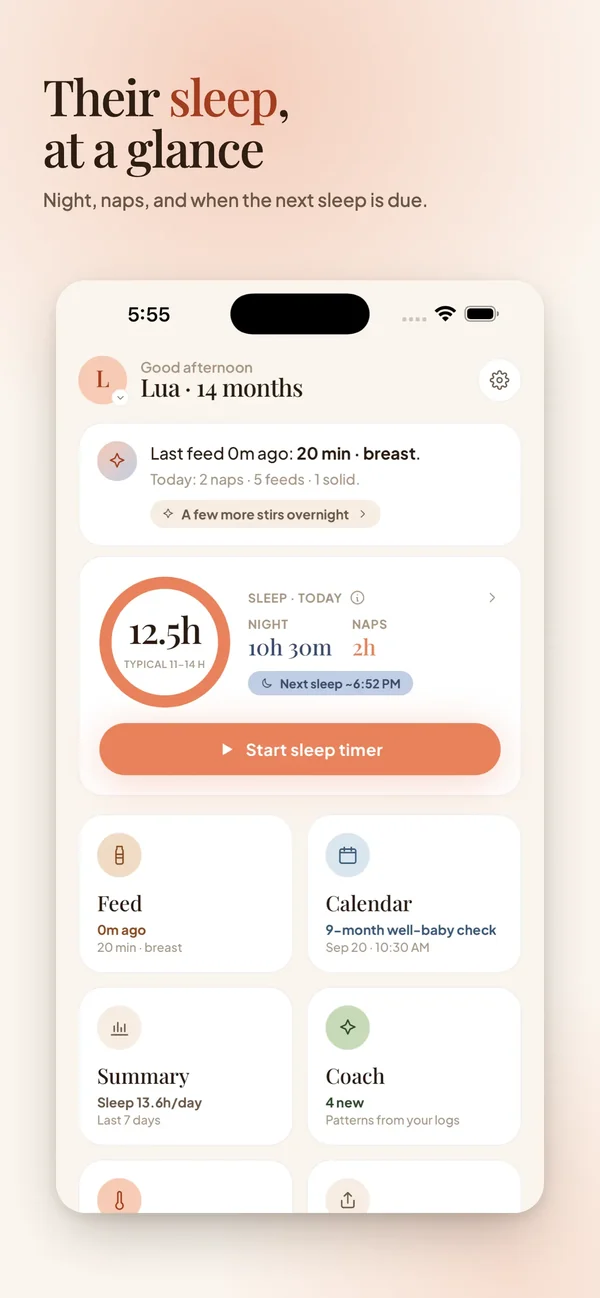
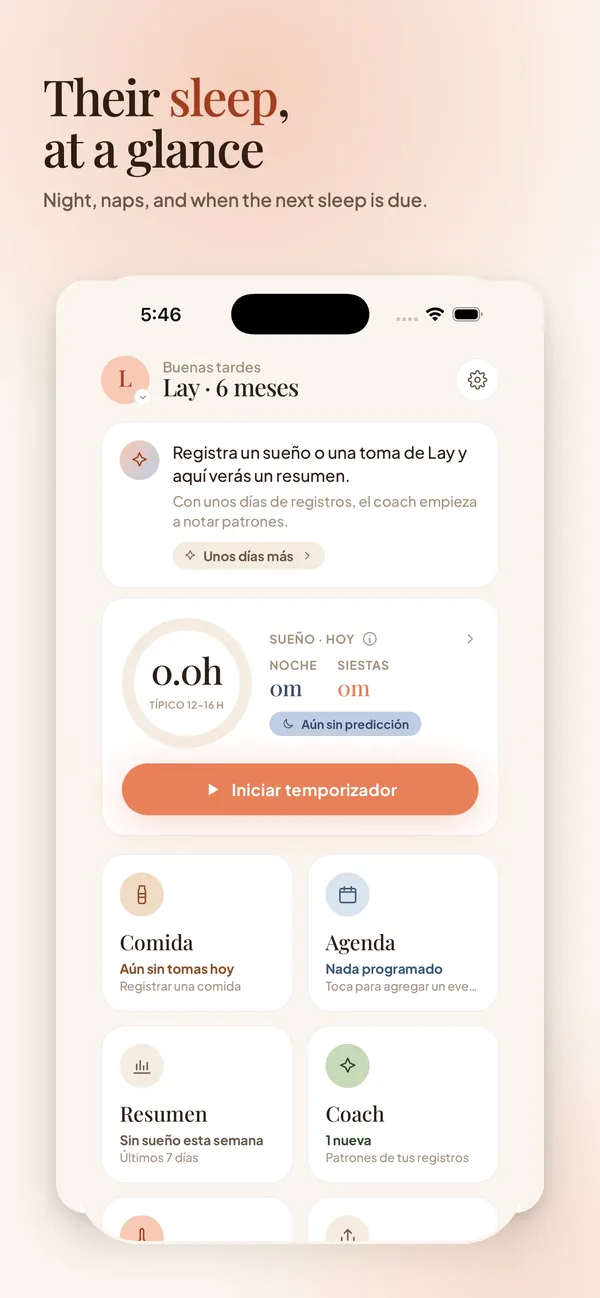
feat: present mobile work as React Native and make Lyapp steps clickable
The hero phone is a generic app that builds with the typed code, the offer names React Native, and the Lyapp step marks jump the demo to the matching screen.

diff --git a/src/styles/global.css b/src/styles/global.css
@@ -212,9 +212,12 @@ button { font: inherit; color: inherit; background: none; border: 0; cursor: poi
 .float-chip { position: absolute; z-index: 3; display: flex; align-items: center; gap: 10px; padding: 11px 14px; border-radius: 14px; border: 1px solid var(--line-2); background: rgba(14,17,32,.82); backdrop-filter: blur(14px); -webkit-backdrop-filter: blur(14px); box-shadow: 0 20px 50px -10px rgba(0,0,0,.6); font-size: 13px; text-align: left; white-space: nowrap; will-change: transform; }
 .float-chip small { display: block; font-family: var(--mono); font-size: 10.5px; color: var(--dim); }
 .float-chip__ic { width: 32px; height: 32px; border-radius: 10px; display: grid; place-items: center; }
-.float-chip > div { animation: floaty 6s ease-in-out infinite; display: flex; gap: 10px; align-items: center; }
-.chip-a { top: 18%; left: -5%; } .chip-b { top: 52%; right: -6%; } .chip-c { bottom: 8%; left: 6%; }
-.chip-b > div { animation-delay: -2s; } .chip-c > div { animation-delay: -4s; }
+.float-chip > div { display: flex; gap: 10px; align-items: center; }
+.chip-a { top: 18%; left: -5%; --edge: var(--green); } .chip-b { top: 52%; right: -6%; --edge: #45e0ff; } .chip-c { bottom: 8%; left: 6%; --edge: #9b6bff; }
+@property --chip-a { syntax: "<angle>"; inherits: false; initial-value: 0deg; }
+.chip-a, .chip-b, .chip-c { border-color: transparent; background: linear-gradient(rgba(14, 17, 32, .92), rgba(14, 17, 32, .92)) padding-box, conic-gradient(from var(--chip-a), rgba(255, 255, 255, .1) 0 64%, var(--edge) 80%, rgba(255, 255, 255, .1) 94% 100%) border-box; animation: chipEdge 5.2s linear infinite; }
+.chip-b { animation-delay: -1.7s; } .chip-c { animation-delay: -3.4s; }
+@keyframes chipEdge { to { --chip-a: 360deg; } }
 
 @media (max-width: 900px) {
   .dash { grid-template-columns: 1fr; }
@@ -355,8 +358,9 @@ button { font: inherit; color: inherit; background: none; border: 0; cursor: poi
 .sstep h3 { font-family: var(--display); font-size: clamp(26px, 3vw, 38px); font-weight: 700; letter-spacing: -1px; line-height: 1.08; margin-bottom: 14px; }
 .sstep p { color: var(--muted); font-size: 15.5px; line-height: 1.65; }
 .scrolly__dots { display: flex; gap: 8px; margin-top: 28px; position: absolute; bottom: -54px; }
-.scrolly__dots i { width: 28px; height: 3px; border-radius: 3px; background: var(--line-2); transition: background .4s, width .4s var(--ease); }
-.scrolly__dots i.is-on { background: var(--cyan); width: 44px; }
+.scrolly__dots button { position: relative; width: 28px; height: 3px; padding: 0; border-radius: 3px; background: var(--line-2); transition: background .4s, width .4s var(--ease); }
+.scrolly__dots button::before { content: ""; position: absolute; inset: -12px -4px; }
+.scrolly__dots button.is-on { background: var(--cyan); width: 44px; }
 .phone-wrap { position: relative; perspective: 1400px; }
 .phone { position: relative; width: 300px; height: 620px; border-radius: 48px; padding: 11px; background: linear-gradient(145deg, #2a2f47, #0c0e1a 40%, #1b1f33); box-shadow: 0 0 0 1px rgba(255,255,255,.08), 0 60px 120px -30px rgba(0,0,0,.9), 0 0 80px -20px rgba(69,224,255,.35); transform: rotateY(var(--ry, -18deg)) rotateX(var(--rx, 8deg)) translateY(var(--ty, 60px)) scale(var(--ps, .9)); transition: transform .15s linear; will-change: transform; }
 .phone__screen { position: relative; height: 100%; border-radius: 38px; overflow: hidden; background: #070913; }
@@ -611,9 +615,9 @@ button { font: inherit; color: inherit; background: none; border: 0; cursor: poi
 .loader.is-done { opacity: 0; visibility: hidden; }
 .loader__f { --u: clamp(6px, 1.4vw, 10px); position: relative; width: calc(25.5 * var(--u)); height: calc(32 * var(--u)); }
 .loader__f i, .fplay__f i { position: absolute; left: calc(var(--c) * 6.5 * var(--u)); top: calc(var(--r) * 6.5 * var(--u)); width: calc(6 * var(--u)); height: calc(6 * var(--u)); border-radius: calc(1.4 * var(--u)); background: #eef2f8; }
-.loader__f i { animation: fkDrop .5s cubic-bezier(.3, 1.35, .5, 1) both; animation-delay: calc(var(--i) * 75ms + 100ms); }
+.loader__f i { animation: fkDrop .62s cubic-bezier(.3, 1.35, .5, 1) both; animation-delay: calc(var(--i) * 92ms + 110ms); }
 .loader__f i.is-fork, .fplay__f i.is-fork { background: linear-gradient(135deg, #22d3ee, #38bdf8 40%, #818cf8 75%, #8b5cf6); box-shadow: 0 0 calc(3 * var(--u)) rgba(56, 189, 248, .55); }
-.loader__f i.is-fork { animation: fkPop .6s var(--ease) both 1s, fkWiggle 1.4s ease-in-out infinite 1.7s; }
+.loader__f i.is-fork { animation: fkPop .74s var(--ease) both 1.2s, fkWiggle 1.4s ease-in-out infinite 2s; }
 .loader__txt { display: flex; gap: 14px; align-items: baseline; font-family: var(--mono); font-size: 12px; letter-spacing: .08em; color: var(--dim); }
 .loader__txt span::after { content: "…"; animation: blink 1s steps(1) infinite; }
 .loader__txt b { color: var(--cyan); font-weight: 500; min-width: 4ch; text-align: right; }
@@ -778,10 +782,10 @@ a.svc { text-decoration: none; color: inherit; }
 .phone--ly { --ly-bg: #F7F1EA; --ly-ink: #2B2420; --ly-mute: #8a7f76; --ly-coral: #E8805A; --ly-blue: #4E5D85; --ly-card: #fffdfb; box-shadow: 0 0 0 1px rgba(255, 255, 255, .1), 0 60px 120px -30px rgba(0, 0, 0, .9), 0 0 90px -20px rgba(232, 128, 90, .4); }
 .phone--ly .phone__screen { background: var(--ly-bg); color: var(--ly-ink); }
 .phone--ly .phone__status { color: var(--ly-ink); }
-.phone--ly .phone__notch { display: flex; align-items: center; justify-content: flex-end; padding: 0 10px; transition: width .6s var(--ease); }
-.island-timer { display: inline-flex; align-items: center; gap: 6px; opacity: 0; font-family: var(--mono); font-size: 10.5px; color: #F6C9B2; transition: opacity .3s; }
-.island-timer i { width: 8px; height: 8px; border-radius: 50%; background: var(--ly-coral); animation: pulseDot 1.4s infinite; }
-.phone--ly.is-timing .phone__notch { width: 150px; }
+.phone--ly .phone__notch { display: flex; align-items: center; justify-content: center; padding: 0 8px; transition: width .6s var(--ease); }
+.island-timer { display: inline-flex; align-items: center; gap: 5px; opacity: 0; font-family: var(--mono); font-size: 10px; color: #F6C9B2; transition: opacity .3s; white-space: nowrap; }
+.island-timer i { width: 6px; height: 6px; border-radius: 50%; background: var(--ly-coral); animation: pulseDot 1.4s infinite; }
+.phone--ly.is-timing .phone__notch { width: 104px; }
 .phone--ly.is-timing .island-timer { opacity: 1; transition-delay: .3s; }
 .screen.ly { padding: 10px 14px; gap: 9px; font-family: var(--body); }
 .ly-hello { display: flex; align-items: center; gap: 10px; }
@@ -1121,18 +1125,30 @@ a.svc { text-decoration: none; color: inherit; }
 .pv-step { opacity: 0; transform: translateY(14px) scale(.96); transition: opacity .5s var(--ease), transform .6s cubic-bezier(.3, 1.4, .5, 1); }
 .pv-step.is-on { opacity: 1; transform: none; }
 .live__wipe { position: absolute; inset: 0; pointer-events: none; background-image: linear-gradient(var(--bg) 0 0); background-size: 100% 0; background-repeat: no-repeat; }
-.pv-phone { width: 190px; height: 340px; border-radius: 32px; padding: 34px 14px 14px; background: #F7F1EA; color: #2B2420; box-shadow: 0 0 0 7px #151a2e, 0 30px 60px -20px rgba(0, 0, 0, .8); position: relative; display: flex; flex-direction: column; gap: 10px; }
-.pv-island { position: absolute; top: 10px; left: 50%; width: 64px; height: 18px; margin-left: -32px; border-radius: 12px; background: #000; }
-.pv-phone small { font-size: 10px; letter-spacing: .08em; color: #8a7f76; text-transform: uppercase; }
-.pv-ring { position: relative; width: 120px; height: 120px; margin: 0 auto; }
-.pv-ring svg { width: 100%; height: 100%; transform: rotate(-90deg); }
-.pv-ring circle { fill: none; stroke-width: 10; stroke: #F3E5DB; }
-.pv-ring circle + circle { stroke: #E8805A; stroke-linecap: round; stroke-dasharray: 252; stroke-dashoffset: 252; transition: stroke-dashoffset 1.4s var(--ease) .2s; }
-.pv-ring.is-on circle + circle { stroke-dashoffset: 28; }
-.pv-ring b { position: absolute; inset: 0; display: grid; place-items: center; font-family: "Playfair Display", Georgia, serif; font-size: 24px; font-weight: 500; }
-.pv-btn { padding: 10px; border-radius: 999px; background: #E8805A; color: #fff; font-size: 11px; font-weight: 700; text-align: center; }
-.pv-tiles { display: grid; grid-template-columns: 1fr 1fr; gap: 6px; font-size: 10px; }
-.pv-tiles span { padding: 10px 8px; border-radius: 12px; background: #fff; box-shadow: 0 4px 12px -6px rgba(90, 60, 40, .3); }
+.pv-phone { width: auto; height: min(364px, calc(100% - 8px)); aspect-ratio: 196 / 364; border-radius: 32px; padding: 30px 13px 68px; background: radial-gradient(120% 60% at 50% 0%, rgba(69, 224, 255, .1), transparent 60%), #0b0e1c; color: var(--text); box-shadow: 0 0 0 1px rgba(255, 255, 255, .08), 0 0 0 7px #151a2e, 0 0 0 8px rgba(255, 255, 255, .06), 0 30px 60px -20px rgba(0, 0, 0, .8); position: relative; display: flex; flex-direction: column; gap: 8px; overflow: hidden; }
+.pv-phone small { font-size: 9.5px; color: var(--muted); }
+.pv-phone b { font-weight: 700; }
+.pv-status { position: absolute; top: 14px; left: 22px; right: 22px; display: flex; align-items: center; justify-content: space-between; font-size: 10px; }
+.pv-status i { width: 30px; height: 6px; border-radius: 2px; background: linear-gradient(90deg, rgba(255, 255, 255, .7) 0 70%, rgba(255, 255, 255, .2) 70%); }
+.pv-status::after { content: ""; position: absolute; top: 0; left: 50%; width: 8px; height: 8px; margin-left: -4px; border-radius: 50%; background: #05060d; box-shadow: 0 0 0 1px rgba(255, 255, 255, .08); }
+.pv-head { display: flex; align-items: flex-end; justify-content: space-between; }
+.pv-head span { display: flex; flex-direction: column; }
+.pv-head b { font-family: var(--display); font-size: 24px; letter-spacing: -.6px; line-height: 1.1; }
+.pv-head i { width: 28px; height: 28px; border-radius: 50%; background: var(--grad); }
+.pv-stats { padding: 12px; border-radius: 16px; border: 1px solid var(--line-2); background: rgba(255, 255, 255, .03); display: grid; grid-template-columns: 1fr auto; align-items: baseline; gap: 4px 0; }
+.pv-stats b { font-family: var(--display); font-size: 16px; }
+.pv-bars { grid-column: 1 / -1; height: 32px; margin-top: 4px; display: flex; align-items: flex-end; gap: 6px; }
+.pv-bars i { flex: 1; height: var(--h); border-radius: 4px; background: rgba(255, 255, 255, .1); }
+.pv-bars i:nth-child(6) { background: var(--grad); box-shadow: 0 6px 16px -6px rgba(69, 224, 255, .6); }
+.pv-btn { padding: 11px; border-radius: 14px; background: var(--grad); color: var(--bg); font-size: 11.5px; font-weight: 700; text-align: center; }
+.pv-tiles { display: grid; grid-template-columns: 1fr 1fr; gap: 8px; }
+.pv-tiles span { padding: 10px; border-radius: 14px; border: 1px solid var(--line-2); background: rgba(255, 255, 255, .03); display: flex; flex-direction: column; gap: 2px; }
+.pv-tiles i { width: 18px; height: 18px; margin-bottom: 6px; border-radius: 6px; background: rgba(69, 224, 255, .2); box-shadow: inset 0 0 0 1px rgba(69, 224, 255, .5); }
+.pv-tiles i.is-v { background: rgba(155, 107, 255, .2); box-shadow: inset 0 0 0 1px rgba(155, 107, 255, .55); }
+.pv-tiles b { font-size: 11px; }
+.pv-tab { position: absolute; left: 16px; right: 16px; bottom: 16px; margin: 0; padding: 8px 4px 0; border-top: 1px solid var(--line); display: flex; justify-content: space-between; }
+.pv-tab i { width: 16px; height: 16px; border-radius: 5px; background: rgba(255, 255, 255, .12); }
+.pv-tab i.is-on { background: var(--cyan); box-shadow: 0 0 10px rgba(69, 224, 255, .5); }
 .pv-site { width: min(100%, 330px); border-radius: 12px; border: 1px solid var(--line-2); background: #0b0e1c; padding: 12px; display: flex; flex-direction: column; gap: 12px; }
 .pv-nav { display: flex; align-items: center; gap: 8px; } .pv-nav i { width: 18px; height: 18px; border-radius: 5px; background: var(--grad); margin-right: auto; } .pv-nav span { width: 28px; height: 5px; border-radius: 3px; background: rgba(255, 255, 255, .15); }
 .pv-hero { padding: 18px 12px; border-radius: 10px; background: linear-gradient(120deg, rgba(69, 224, 255, .18), rgba(155, 107, 255, .2)); text-align: center; }
@@ -1363,7 +1379,7 @@ a.svc { text-decoration: none; color: inherit; }
 .hero2__l2.is-code { font-family: var(--mono); font-weight: 500; font-size: .62em; letter-spacing: -.02em; line-height: 1.6; background: none; -webkit-text-fill-color: #7fe7ff; color: #7fe7ff; }
 .hero2__l2.is-code::after { content: ""; display: inline-block; width: .5em; height: .9em; margin-left: .06em; vertical-align: -.08em; background: var(--cyan); animation: blink .6s steps(1) infinite; }
 .hero2__l2 .tl-ch { display: inline-block; white-space: pre; background-image: var(--grad-text); -webkit-background-clip: text; background-clip: text; -webkit-text-fill-color: transparent; }
-.tl-ch.is-flip { animation: compileIn .75s cubic-bezier(.3, 1.4, .5, 1) both; animation-delay: calc(var(--i) * 50ms); }
+.tl-ch.is-flip { animation: compileIn 1.12s cubic-bezier(.3, 1.4, .5, 1) both; animation-delay: calc(var(--i) * 82ms); }
 @keyframes compileIn { 0% { transform: translateY(.35em) rotateX(90deg); opacity: 0; filter: blur(4px); } 60% { opacity: 1; } 100% { transform: none; opacity: 1; filter: none; } }
 .hero2__h1.is-compiled .h1-tag { animation: tagPulse .8s ease 1; }
 @keyframes tagPulse { 50% { opacity: 1; color: var(--cyan); } }

diff --git a/src/data/services.ts b/src/data/services.ts
@@ -20,19 +20,19 @@ export type Service = {
 export const services: Service[] = [
   {
     id: "apps",
-    file: "apps.swift",
+    file: "apps.tsx",
     name: { en: "Mobile apps", es: "Apps móviles" },
     title: { en: "Apps people open every day", es: "Apps que la gente abre todos los días" },
     lead: {
-      en: "We design and build native iOS and cross-platform apps with clear states, purposeful motion and the speed that makes an app feel like yours.",
-      es: "Diseñamos y construimos apps iOS nativas y multiplataforma con estados claros, animaciones con intención y la velocidad que hace que una app se sienta tuya.",
+      en: "We design and build React Native apps for iOS and Android, with clear states, purposeful motion and the speed that makes an app feel like yours.",
+      es: "Diseñamos y construimos apps en React Native para iOS y Android, con estados claros, animaciones con intención y la velocidad que hace que una app se sienta tuya.",
     },
     icon: '<rect x="6" y="2.5" width="12" height="19" rx="2.5"></rect><line x1="10.5" y1="18.5" x2="13.5" y2="18.5"></line>',
     tone: "violet",
     includes: [
       { en: "Product discovery and an MVP feature map", es: "Descubrimiento de producto y mapa de funcionalidades del MVP" },
       { en: "UX/UI design in Figma with clickable prototypes", es: "Diseño UX/UI en Figma con prototipos navegables" },
-      { en: "Native iOS or cross-platform development", es: "Desarrollo iOS nativo o multiplataforma" },
+      { en: "React Native for iOS and Android, from one codebase", es: "React Native para iOS y Android, desde una sola base de código" },
       { en: "Widgets, Live Activities, notifications and offline mode", es: "Widgets, Live Activities, notificaciones y modo offline" },
       { en: "AI integrations when they add real value", es: "Integraciones con IA cuando suman valor real" },
       { en: "Publishing to the App Store and Google Play", es: "Publicación en App Store y Google Play" },
@@ -45,7 +45,7 @@ export const services: Service[] = [
       { value: "8–16", label: { en: "weeks to launch", es: "semanas al lanzamiento" } },
       { value: "60 fps", label: { en: "as the standard", es: "como estándar" } },
     ],
-    stack: ["Swift", "SwiftUI", "React Native", "Supabase", "App Store Connect"],
+    stack: ["React Native", "TypeScript", "Supabase", "App Store Connect", "Google Play"],
     timeline: { en: "8 to 16 weeks", es: "8 a 16 semanas" },
     project: "lyapp",
     viz: "phone",

diff --git a/src/scripts/motion.js b/src/scripts/motion.js
@@ -417,12 +417,26 @@ function scrollyUpdate() {
   if (step === scrollyStep) return;
   scrollyStep = step;
   $$(".sstep", scrolly).forEach((s, i) => s.classList.toggle("is-active", i === step));
-  $$(".scrolly__dots i", scrolly).forEach((d, i) => d.classList.toggle("is-on", i === step));
+  $$(".scrolly__dots button", scrolly).forEach((d, i) => {
+    d.classList.toggle("is-on", i === step);
+    d.setAttribute("aria-current", String(i === step));
+  });
   $$(".screen", scrolly).forEach((s, i) => { s.classList.toggle("is-active", i === step); s.classList.toggle("is-past", i < step); });
   $$(".tabbar i", scrolly).forEach((d, i) => d.classList.toggle("is-on", i === step));
   $$(".scard", scrolly).forEach((c, i) => c.classList.toggle("is-on", i <= step));
   if (step === 1 && chat) playChat();
 }
+
+if (scrolly) $$(".scrolly__dots button", scrolly).forEach((btn, i) => {
+  btn.addEventListener("click", () => {
+    if (!scrolly) return;
+    const n = $$(".sstep", scrolly).length || 1;
+    const r = scrolly.getBoundingClientRect();
+    const total = r.height - innerHeight;
+    const p = (i + 0.45) / n;
+    window.scrollTo({ top: window.scrollY + r.top + p * total, behavior: reduced ? "auto" : "smooth" });
+  });
+});
 
 /* Lyapp: live sleep timer in the Dynamic Island */
 const timers = $$("[data-timer]");
@@ -480,14 +494,14 @@ const loader = $("#loader");
 if (loader && !document.documentElement.classList.contains("no-loader")) {
   const pct = $("#loader-pct");
   const t0 = performance.now();
-  const MIN = 1300;
+  const MIN = 2150;
   let loaded = document.readyState === "complete";
   addEventListener("load", () => (loaded = true), { once: true });
   const step = (now) => {
     const el = now - t0;
     const p = Math.min(1, el / MIN) * (loaded ? 1 : 0.92);
     if (pct) pct.textContent = `${Math.round(p * 100)}%`;
-    if ((el >= MIN && loaded) || el > 3200) {
+    if ((el >= MIN && loaded) || el > 2650) {
       if (pct) pct.textContent = "100%";
       loader.classList.add("is-done");
       setTimeout(() => loader.remove(), 700);

diff --git a/src/scripts/fx.js b/src/scripts/fx.js
@@ -51,12 +51,12 @@ if (h1 && !reduced) {
   h1.classList.add("is-typing");
   setTimeout(async () => {
     // command line types in parallel
-    if (heroCmd) (async () => { for (let i = 1; i <= full.length; i++) { heroCmd.textContent = full.slice(0, i); await wait(24); } })();
+    if (heroCmd) (async () => { for (let i = 1; i <= full.length; i++) { heroCmd.textContent = full.slice(0, i); await wait(40); } })();
     // line 1: typed with a block caret
-    for (const s of l1s) { s.classList.add("is-on", "is-cur"); await wait(75); s.classList.remove("is-cur"); }
+    for (const s of l1s) { s.classList.add("is-on", "is-cur"); await wait(120); s.classList.remove("is-cur"); }
     // line 2: written as code first…
-    for (let i = 1; i <= code.length; i++) { l2.textContent = code.slice(0, i); await wait(45); }
-    await wait(550);
+    for (let i = 1; i <= code.length; i++) { l2.textContent = code.slice(0, i); await wait(76); }
+    await wait(880);
     // …then compiled letter by letter into the headline
     l2.classList.remove("is-code");
     const l2s = letters(l2, t2);
@@ -69,10 +69,10 @@ if (h1 && !reduced) {
     });
     h1.classList.remove("is-typing");
     h1.classList.add("is-compiled");
-    await wait(l2s.length * 50 + 800);
+    await wait(l2s.length * 82 + 1200);
     l2.textContent = t2;
     l1.textContent = t1;
-  }, noLoader() ? 150 : 1400);
+  }, noLoader() ? 150 : 2250);
 } else if (heroCmd) heroCmd.textContent = heroCmd.dataset.text;
 
 /* ───────── Hero: live coding playground ───────── */
@@ -121,7 +121,7 @@ if (live) {
   }
   new IntersectionObserver(([e]) => {
     visible = e.isIntersecting;
-    if (visible && !started) { started = true; setTimeout(play, noLoader() ? 500 : 2300); }
+    if (visible && !started) { started = true; setTimeout(play, noLoader() ? 500 : 3150); }
   }, { threshold: 0.2 }).observe(live);
 }
 

diff --git a/src/data/projects.ts b/src/data/projects.ts
@@ -160,12 +160,12 @@ const list: Project[] = [
       { value: "1.1", label: { en: "version shipped", es: "versión publicada" } },
       { value: "0", label: { en: "accounts or trackers", es: "cuentas o rastreadores" } },
       { value: "2", label: { en: "languages", es: "idiomas" } },
-      { value: "iOS", label: { en: "native", es: "nativa" } },
+      { value: "iOS", label: { en: "React Native", es: "React Native" } },
     ],
-    stack: ["Native iOS", "Live Activities", "Dynamic Island", "PDF", "Optional AI"],
+    stack: ["React Native", "Live Activities", "Dynamic Island", "PDF", "Optional AI"],
     links: [{ label: { en: "View on the App Store", es: "Ver en App Store" }, href: "https://apps.apple.com/us/app/lyapp-baby-tracker-sleep/id6805567858" }],
     images: [
-      { src: "projects/lyapp-hoy.webp", alt: { en: "Lyapp home screen with a 12.5-hour sleep ring and the button to start the sleep timer", es: "Pantalla de inicio de Lyapp con el anillo de sueño de 12.5 horas y el botón para iniciar el temporizador" }, kind: "phone" },
+      { src: "projects/lyapp-hoy.webp", alt: { en: "Lyapp home for Lay at 6 months, with an empty sleep ring and the button to start the timer", es: "Inicio de Lyapp para Lay a los 6 meses, con el anillo de sueño vacío y el botón para iniciar el temporizador" }, kind: "phone" },
       { src: "projects/lyapp-resumen.webp", alt: { en: "Lyapp weekly summary screen with sleep bars compared with the typical range", es: "Pantalla de resumen semanal de Lyapp con barras de sueño comparadas con el rango típico" }, kind: "phone" },
       { src: "projects/lyapp-coach.webp", alt: { en: "Lyapp Coach screen with cards of patterns found in the logs", es: "Pantalla Coach de Lyapp con tarjetas de patrones detectados en los registros" }, kind: "phone" },
     ],

diff --git a/src/data/site.ts b/src/data/site.ts
@@ -21,7 +21,7 @@ export const site = {
   ],
 };
 
-export const tech = ["Swift", "React", "Next.js", "Astro", "Node.js", "Supabase", "Vercel", "Figma", "Google Search Console", "Schema.org", "OpenAI", "GitHub Actions"];
+export const tech = ["React Native", "React", "Next.js", "Astro", "Node.js", "Supabase", "Vercel", "Figma", "Google Search Console", "Schema.org", "OpenAI", "GitHub Actions"];
 
 export const steps = [
   { title: { en: "Discovery", es: "Descubrimiento" }, c: "#5EE3FF", text: { en: "We learn your business, goals and audience and turn them into a clear, actionable spec.", es: "Entendemos tu negocio, tus objetivos y a tu audiencia para convertirlos en una especificación clara y accionable." }, icon: '<circle cx="11" cy="11" r="7"></circle><line x1="21" y1="21" x2="16.5" y2="16.5"></line>' },
